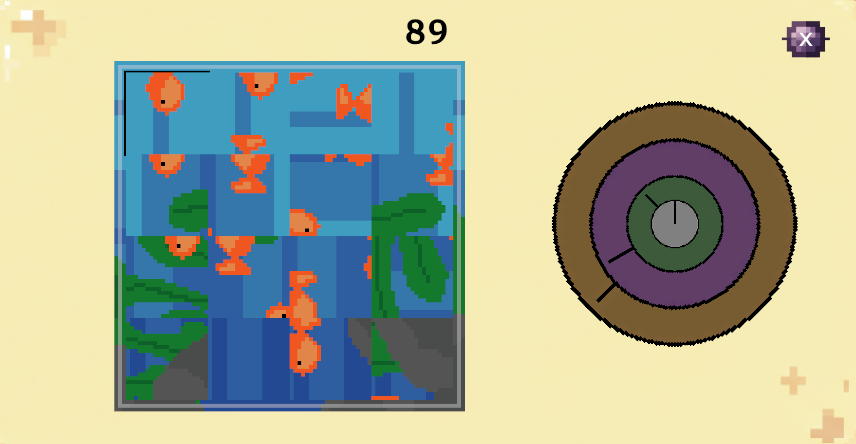
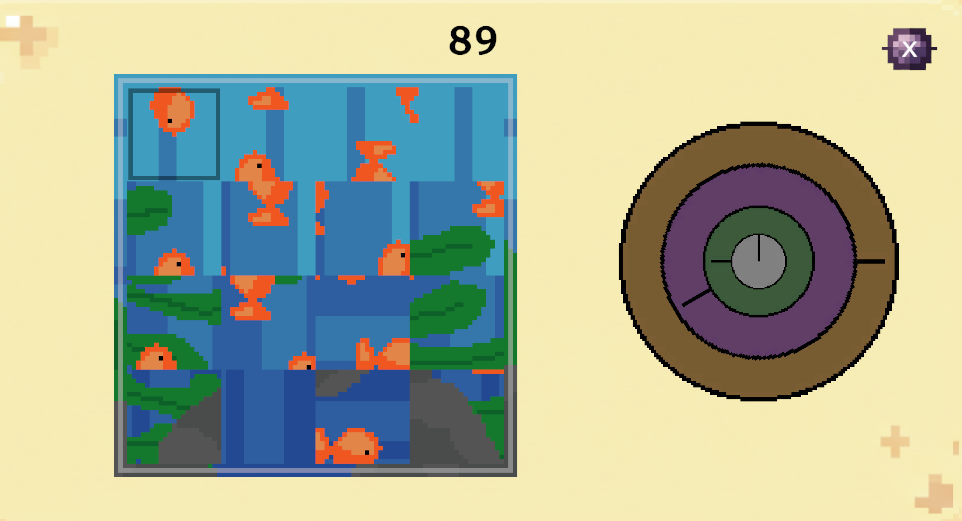
Fix : 튜토리얼 이미지 변경

diff --git a/Assets/03.Scripts/Puzzle/TreePuzzleSystem.cs b/Assets/03.Scripts/Puzzle/TreePuzzleSystem.cs
@@ -133,11 +133,11 @@ public class TreePuzzleSystem : MonoBehaviour
     // 조각 체크
     public void CheckPuzzle()
     {
-        //foreach (var piece in pieces)
-        //{
-        //    if (!piece.IsCorrect())
-        //        return;
-        //}
+        foreach (var piece in pieces)
+        {
+            if (!piece.IsCorrect())
+                return;
+        }
 
         CompletePuzzle();
     }
